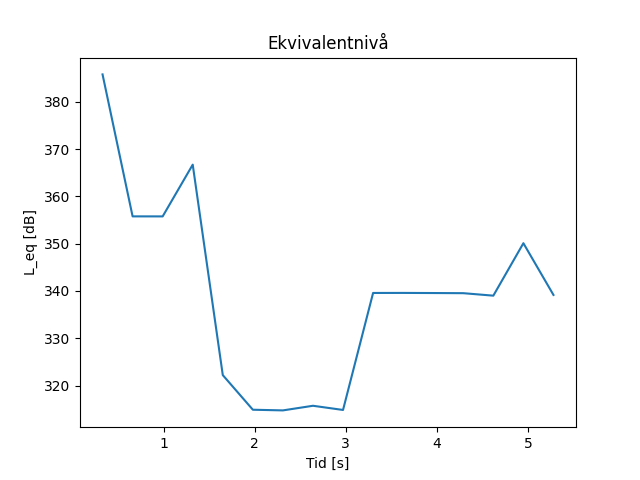
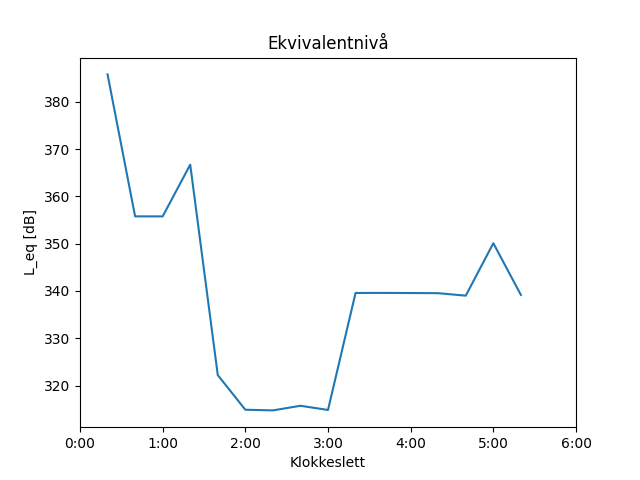
s

diff --git a/data_analyze_func.py b/data_analyze_func.py
@@ -200,7 +200,7 @@ def find_ekvivalens():
             tempLeq = ekvivalentniva_mv0(data, v0)
 
             Leq_vec.append(tempLeq)
-            t += 0.33
+            t += 1/3
             time.append(t)
 
             continue
@@ -212,15 +212,25 @@ def plott_ekvivalens():
     L, t = find_ekvivalens()
     plt.clf()
     plt.title("Ekvivalentnivå")
-    plt.xlabel("Tid [s]")
+    plt.xlabel("Klokkeslett")
     plt.ylabel("L_eq [dB]") #ekvivalent lydnivå
     plt.plot(t, L)
+    x_ticks = [0, 1, 2, 3, 4, 5, 6]
     with open("fignummer.txt", "r") as file:
         k = file.read()
+    if int(k) == 6:
+        x_labels = ['0:00', '1:00', '2:00', '3:00', '4:00', '5:00', '6:00']
+    if int(k) == 12:
+        x_labels = ['6:00', '7:00', '8:00', '9:00', '10:00', '11:00', '12:00']
+    if int(k) == 18:
+        x_labels = ['12:00', '13:00', '14:00', '15:00', '16:00', '17:00', '18:00']
+    if int(k) == 24:
+        x_labels = ['18:00', '19:00', '20:00', '21:00', '22:00', '23:00', '24:00']
+    plt.xticks(ticks=x_ticks, labels=x_labels)
     plt.savefig(os.path.abspath('/Users/mariabolme/Desktop/Elsys/elsys-prosjekt/Nettside/webkurs/elsysapp/static/Ekvivalentnivå/ekvivalentnivå'+ k))
-    
+    #plt.show()
 
-plott_ekvivalens()
+#plott_ekvivalens()
 
 
 
